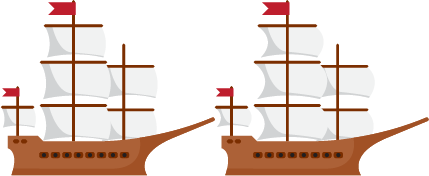
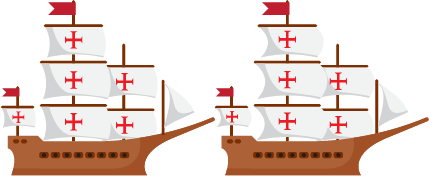
updated the boat images'. new boat with crosses.

diff --git a/js/game/states/Preload.js b/js/game/states/Preload.js
@@ -17,7 +17,7 @@ Welpworld.Preload.prototype = {
     jogo.carregarImagem('mar', 'assets/images/mar 1.png');
     
     jogo.carregarSprite('jogador', 'assets/images/barco_bom.png', 213.85, 175.13, 2);
-    jogo.carregarSprite('inimigo', 'assets/images/barco_mau.png', 224.8, 175.13,1);
+    jogo.carregarSprite('inimigo', 'assets/images/barco_mau.png', 224.8, 175.13,2);
     jogo.carregarImagem('bomba', 'assets/images/bomba.png');
 
     jogo.carregarTextoBitmap('minecraftia', 'assets/fonts/minecraftia/minecraftia.png', 'assets/fonts/minecraftia/minecraftia.xml');
